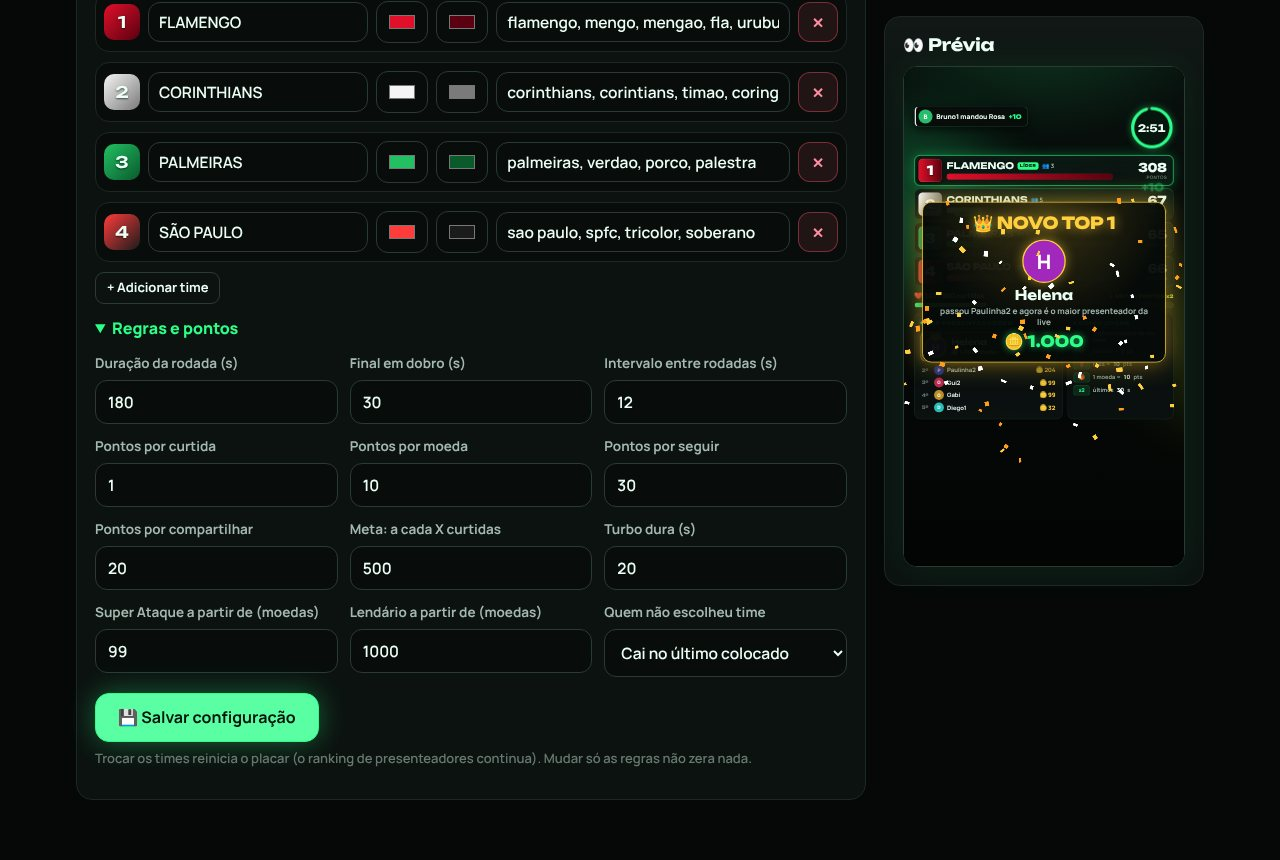
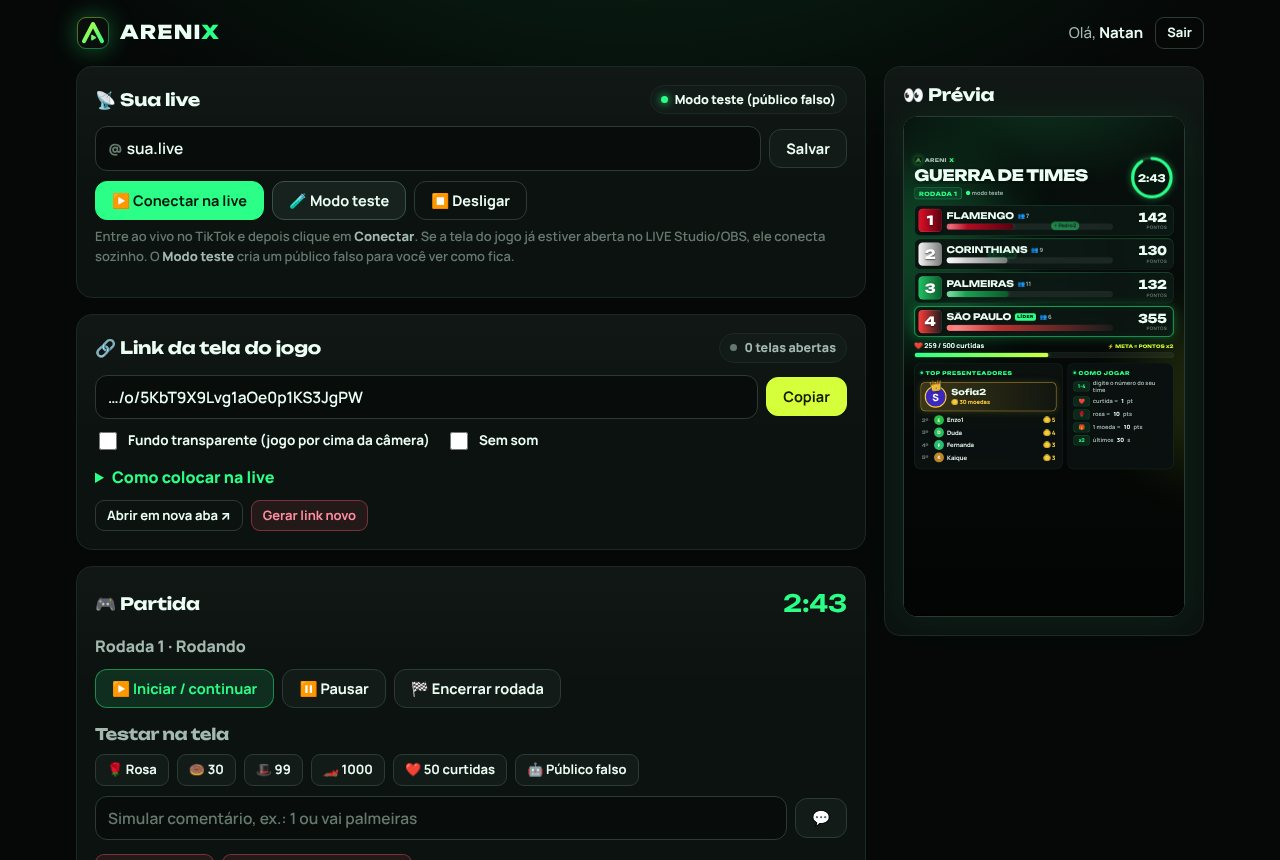
Página inicial com as prévias novas e imagens que atualizam sem esperar cache
- Print do painel refeito (topo do painel com a tela nova na prévia)
- Imagens com cache curto (5 min, revalidando) e links versionados, para
  a versão nova aparecer logo depois de publicar

Claude-Session: https://claude.ai/code/session_01K7yRyM9Kw74cnAjcS9AmbL

diff --git a/live-games/public/index.html b/live-games/public/index.html
@@ -7,7 +7,7 @@
   <meta name="description" content="Transforme sua live do TikTok em uma arena: o chat escolhe um lado, curtidas e presentes viram pontos e o maior apoiador ganha a coroa na tela. Grátis, sem instalar nada.">
   <meta property="og:title" content="ARENIX · Sua live vira uma arena">
   <meta property="og:description" content="Jogos interativos para TikTok LIVE. Curtidas e presentes viram pontos, ranking com coroa de TOP 1 e alertas épicos.">
-  <meta property="og:image" content="/marca/og.png">
+  <meta property="og:image" content="/marca/og.png?v=3">
   <meta property="og:type" content="website">
   <meta name="twitter:card" content="summary_large_image">
   <meta name="theme-color" content="#050807">
@@ -52,7 +52,7 @@
 
         <div class="hero-visual" aria-label="Exemplo da tela do jogo durante uma live">
           <div class="fone">
-            <img src="/previa.jpg" alt="Tela do jogo Guerra de Times: quatro times com barras de pontos, cronômetro e ranking de presenteadores" width="540" height="960">
+            <img src="/previa.jpg?v=3" alt="Tela do jogo Guerra de Times: quatro times com barras de pontos, cronômetro e ranking de presenteadores" width="540" height="960">
           </div>
           <div class="flutua f1"><span class="ic">💥</span><div><b>SUPER ATAQUE</b><small>Chapéu · +990 pts</small></div></div>
           <div class="flutua f2"><span class="ic">👑</span><div><b>Novo TOP 1</b><small>passou o 2º lugar</small></div></div>
@@ -136,7 +136,7 @@
           </ul>
           <a class="btn prim grande" href="/criar-conta">Abrir meu painel</a>
         </div>
-        <div class="mostra-img"><img src="/painel-previa.jpg" alt="Painel da ARENIX com status da live, link da tela, controles da partida e prévia" width="1280" height="900" loading="lazy"></div>
+        <div class="mostra-img"><img src="/painel-previa.jpg?v=3" alt="Painel da ARENIX com status da live, link da tela, controles da partida e prévia" width="1280" height="900" loading="lazy"></div>
       </div>
     </section>
 
